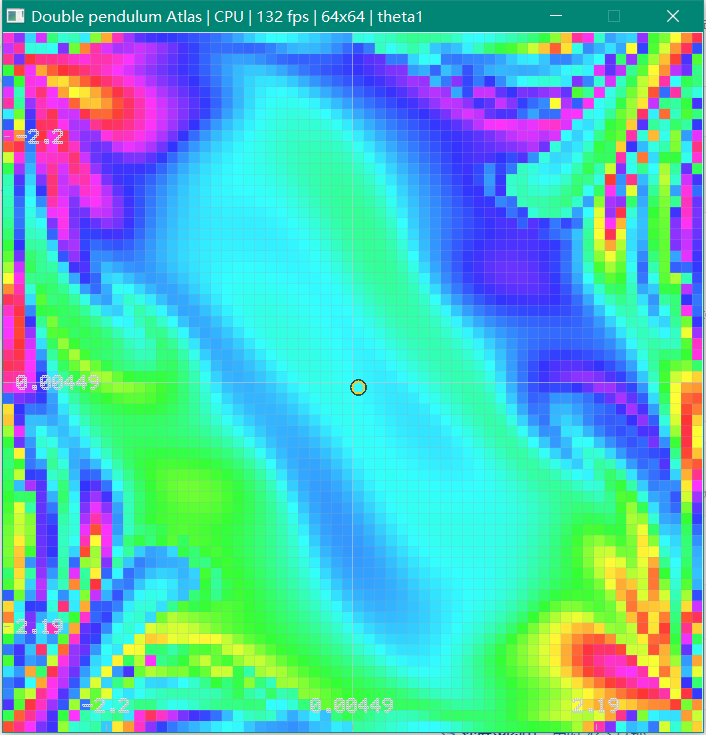
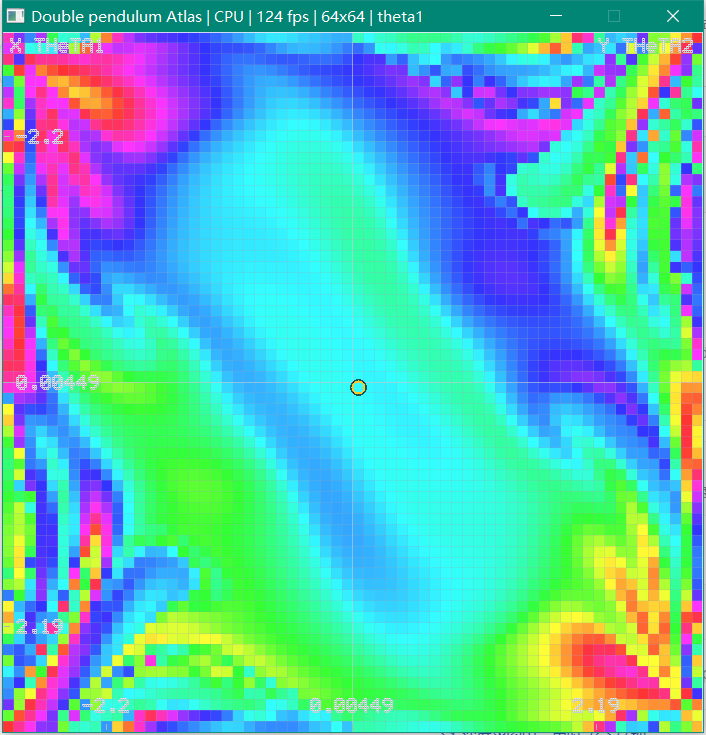
feat: draw axis names on the atlas
Extend the 5x7 vector font with A-Z and draw X/Y axis names at the top edge. Keep the numeric min/mid/max ticks on the bottom/left. Version 1.16.0: 25 C objects, 427,520 B exe, 117 CPU / 149 GPU tests.

diff --git a/src/phase_view.c b/src/phase_view.c
@@ -309,14 +309,50 @@ static const char *glyph_row(char ch, int row)
         { "00000","00000","00000","00000","00000","00110","00110" }, /* . */
         { "00000","00000","00000","11111","00000","00000","00000" }, /* - */
         { "00000","00000","01110","10001","11111","10000","01110" }, /* e */
-        { "00000","00100","00100","11111","00100","00100","00000" }  /* + */
+        { "00000","00100","00100","11111","00100","00100","00000" }, /* + */
+        { "01110","10001","10001","11111","10001","10001","10001" }, /* A */
+        { "11110","10001","10001","11110","10001","10001","11110" }, /* B */
+        { "01111","10000","10000","10000","10000","10000","01111" }, /* C */
+        { "11110","10001","10001","10001","10001","10001","11110" }, /* D */
+        { "11111","10000","10000","11110","10000","10000","11111" }, /* E */
+        { "11111","10000","10000","11110","10000","10000","10000" }, /* F */
+        { "01111","10000","10000","10111","10001","10001","01111" }, /* G */
+        { "10001","10001","10001","11111","10001","10001","10001" }, /* H */
+        { "11111","00100","00100","00100","00100","00100","11111" }, /* I */
+        { "00111","00010","00010","00010","10010","10010","01100" }, /* J */
+        { "10001","10010","10100","11000","10100","10010","10001" }, /* K */
+        { "10000","10000","10000","10000","10000","10000","11111" }, /* L */
+        { "10001","11011","10101","10101","10001","10001","10001" }, /* M */
+        { "10001","11001","10101","10011","10001","10001","10001" }, /* N */
+        { "01110","10001","10001","10001","10001","10001","01110" }, /* O */
+        { "11110","10001","10001","11110","10000","10000","10000" }, /* P */
+        { "01110","10001","10001","10001","10101","10010","01101" }, /* Q */
+        { "11110","10001","10001","11110","10100","10010","10001" }, /* R */
+        { "01111","10000","10000","01110","00001","00001","11110" }, /* S */
+        { "11111","00100","00100","00100","00100","00100","00100" }, /* T */
+        { "10001","10001","10001","10001","10001","10001","01110" }, /* U */
+        { "10001","10001","10001","10001","10001","01010","00100" }, /* V */
+        { "10001","10001","10001","10101","10101","10101","01010" }, /* W */
+        { "10001","10001","01010","00100","01010","10001","10001" }, /* X */
+        { "10001","10001","01010","00100","00100","00100","00100" }, /* Y */
+        { "11111","00001","00010","00100","01000","10000","11111" }, /* Z */
+        { "00000","00110","00110","00000","00110","00110","00000" }, /* : */
+        { "00000","00000","00000","00000","00000","00000","00000" }, /* space */
+        { "11111","10000","10000","11110","10000","10000","11111" }  /* uppercase E */
     };
     int idx = -1;
-    if (ch >= '0' && ch <= '9') idx = ch - '0';
-    else if (ch == '.') idx = 10;
-    else if (ch == '-') idx = 11;
-    else if (ch == 'e' || ch == 'E') idx = 12;
-    else if (ch == '+') idx = 13;
+    if (ch == 'e') idx = 12;
+    else {
+        if (ch >= 'a' && ch <= 'z') ch = (char)(ch - 'a' + 'A');
+        if (ch >= '0' && ch <= '9') idx = ch - '0';
+        else if (ch == '.') idx = 10;
+        else if (ch == '-') idx = 11;
+        else if (ch == '+') idx = 13;
+        else if (ch >= 'A' && ch <= 'Z') idx = 14 + ch - 'A';
+        else if (ch == ':') idx = 40;
+        else if (ch == ' ') idx = 41;
+        else if (ch == 'E') idx = 42;
+    }
     if (idx < 0 || row < 0 || row > 6) return NULL;
     return g[idx][row];
 }
@@ -367,6 +403,7 @@ static void draw_text(float *verts, int maxv, int *n, const char *text,
 
 int pv_build_axis_ticks(const PhaseView *v, double range, int w, int h,
                         double xmin, double xmax, double ymin, double ymax,
+                        const char *xname, const char *yname,
                         float *verts, int maxv)
 {
     const double fracs[3] = { 0.15, 0.5, 0.85 };
@@ -397,6 +434,20 @@ int pv_build_axis_ticks(const PhaseView *v, double range, int w, int h,
             push_line(verts, maxv, &n, px_to_ndc_x(1, w), px_to_ndc_y(sy, h),
                       px_to_ndc_x(7, w), px_to_ndc_y(sy, h), 0.7, 0.7, 0.7, 1.0);
             draw_text(verts, maxv, &n, buf, 14, sy - 7 * pixel / 2, pixel, w, h);
+        }
+    }
+    {
+        char namebuf[96];
+        int tw;
+        if (xname) {
+            snprintf(namebuf, sizeof(namebuf), "X %s", xname);
+            tw = (int)(strlen(namebuf) * 6 * pixel);
+            draw_text(verts, maxv, &n, namebuf, 8, 6, pixel, w, h);
+        }
+        if (yname) {
+            snprintf(namebuf, sizeof(namebuf), "Y %s", yname);
+            tw = (int)(strlen(namebuf) * 6 * pixel);
+            draw_text(verts, maxv, &n, namebuf, w - tw - 8, 6, pixel, w, h);
         }
     }
     return n;

diff --git a/src/app.c b/src/app.c
@@ -1041,6 +1041,8 @@ static void app_render_phase(App *a)
     axis_n = pv_build_axis_ticks(&a->view, 1.0, w, h,
                                  a->exp.xmin, a->exp.xmax,
                                  a->exp.ymin, a->exp.ymax,
+                                 (a->exp.axis_x >= 0) ? a->exp.p[a->exp.axis_x].name : "",
+                                 (a->exp.axis_y >= 0) ? a->exp.p[a->exp.axis_y].name : "",
                                  verts + total * 6, 32768 - total);
     total += axis_n;
     if (grid_n > 0) gpu_draw_lines(a->gpu, verts, grid_n, 1.0f);

diff --git a/src/phase_view.h b/src/phase_view.h
@@ -35,6 +35,7 @@ int    pv_build_overlay(const PhaseView *v, double range, int res, int w, int h,
                         int *grid_verts);
 int    pv_build_axis_ticks(const PhaseView *v, double range, int w, int h,
                            double xmin, double xmax, double ymin, double ymax,
+                           const char *xname, const char *yname,
                            float *verts, int max_verts);
 
 #endif

diff --git a/docs/design.md b/docs/design.md
@@ -10,7 +10,7 @@
 - 解压即用的文件夹 + zip，Tcl/Tk 动态链接。
 
 当前是 M3：三个模型、通用 Model 接口、模型下拉、动态 schema、82 项自检。
-Lua 表达式模型、CPU/GLSL、全模型 GPU、Inspect、实验保存和地图数字刻度已完成；轴名直绘/更多会话状态仍在后面。
+Lua 表达式模型、CPU/GLSL、全模型 GPU、Inspect、实验保存、地图数字刻度和轴名直绘已完成；更多会话状态仍在后面。
 
 ## 2. 数据流
 
@@ -208,8 +208,8 @@ Angle/Mass 是双摆专用预设；在 map 模型上点击会先切回双摆。
 ## 10c. 地图数字刻度
 
 `phase_view.c` 用 5×7 矢量数字在底边/左边画 min/mid/max tick；标签位置按
-当前 zoom/pan 通过 `pv_screen_to_world` 换算，轴名/范围仍在面板读数。
-只画数字，不画轴名；没有纹理字体/GDI 文字。
+当前 zoom/pan 通过 `pv_screen_to_world` 换算；轴名画在顶部，范围仍在面板读数。
+数字刻度 + 顶部 `X name` / `Y name` 轴名；5×7 矢量字体，不依赖纹理/GDI。
 
 ## 11. Lua schema + palette
 
@@ -243,7 +243,7 @@ function M.schema(id) return M.models[id] end
 
 `build.ps1` 六步；C 25 个对象；Tcl/Tk 动态，Lua/Fortran 静态。
 TCL_LIBRARY/TK_LIBRARY 指向 exe 目录下 lib/，不解包、不写 LOCALAPPDATA。
-zip 约 3.9 MB，exe 约 426 KB。
+zip 约 3.9 MB，exe 约 428 KB。
 
 ## 13. 物理与数值边界
 
@@ -255,7 +255,7 @@ zip 约 3.9 MB，exe 约 426 KB。
 
 已知限制：
 
-- 内置模型 + Lua 表达式 map/ODE；全模型 GPU + 地图数字刻度已完成；还没有轴名直绘；
+- 内置模型 + Lua 表达式 map/ODE；全模型 GPU + 数字刻度 + 轴名直绘已完成；
 - GUI 默认 CPU；Kernel=GPU 可启用全模型 GPU atlas；
 - map 只有面板 Inspect，没有独立窗口 inspector；
 - 无文件选择对话框、实验保存/加载；PNG 只包含 atlas；
@@ -271,6 +271,7 @@ zip 约 3.9 MB，exe 约 426 KB。
 - M6（已完成）：GPU compute atlas + CPU 回退（自定义模型）；
 - M7a（已完成）：.dps 实验保存/加载 + 文件对话框 + CLI；
 - M7b（进行中）：控制流与 ODE 表达式已进 CPU+GLSL；
-- M8（进行中）：全模型 GPU + 地图数字刻度已完成；后续轴名直绘、更多会话状态。
+- M8（已完成）：全模型 GPU + 地图数字刻度 + 轴名直绘；
+- M9（进行中）：更多会话状态、最近实验。
 - M8：地图轴刻度、更多会话状态、FTLE/盆地/切片；
 - 可选：map inspector、Hénon Lyapunov（切向量+QR）。

diff --git a/README.md b/README.md
@@ -23,7 +23,7 @@
 ```powershell
 cd pendulum-phase
 pwsh -File build.ps1
-Expand-Archive .\dist\dp-phase-1.15.0.zip -DestinationPath .\dist\run -Force
+Expand-Archive .\dist\dp-phase-1.16.0.zip -DestinationPath .\dist\run -Force
 .\dist\run\dp-phase\dp-phase.exe
 
 # 直接打开某个模型
@@ -175,8 +175,8 @@ param.r=3.7
 
 ## 地图刻度
 
-地图窗口在底边/左边绘制 min/mid/max 数字刻度与短 tick；数值按当前缩放/平移换算，
-轴名和范围仍在面板 `X theta1 [...]  Y theta2 [...]` 读数里。
+地图窗口在底边/左边绘制 min/mid/max 数字刻度与短 tick；顶部左右直接画
+`X theta1` / `Y theta2` 轴名。数值按当前缩放/平移换算，范围仍在面板读数里。
 
 ![地图刻度](docs/shot-axis.png)
 
@@ -192,7 +192,7 @@ param.r=3.7
 
 ![模型面板](docs/shot-panel.png)
 
-**View**：Model、Color by、View（raw/gradient/range/variance）、Palette、Kernel CPU/GPU、颜色条、Grid/Periodic/Circle、Reset view、Angle/Mass 预设、Export PNG/CSV。地图边缘有数字刻度（min/mid/max），轴名/范围在面板读数里。
+**View**：Model、Color by、View（raw/gradient/range/variance）、Palette、Kernel CPU/GPU、颜色条、Grid/Periodic/Circle、Reset view、Angle/Mass 预设、Export PNG/CSV。地图边缘有数字刻度（min/mid/max），顶部直接画 X/Y 轴名；范围在面板读数里。
 
 **Parameters**：X/Y 轴、范围、Res、dt、Steps/frame、模型参数、Apply parameters。
 面板高度按屏幕自适应（1080p 下 620 客户区），双摆 10 个参数能完整显示。
@@ -300,10 +300,10 @@ src/selftest.c      CPU 117 项；含 GPU 的 149 项
 3. 地图/自定义模型没有独立窗口检查器；用面板 **Inspect** 页。
 4. 实验保存/加载已有；PNG/CSV 导出仍固定到 exe 旁 exports/。
 5. 能量通道范围固定 ±50 J；极端参数会饱和；PNG 不包含叠加线。
-6. 控制流/ODE、全模型 GPU、地图数字刻度已完成；还缺轴名直接画在地图上、更多会话状态；目标是 2D 地图，不是 AUTO/MatCont。
+6. 控制流/ODE、全模型 GPU、地图数字刻度与轴名直绘已完成；还缺更多会话状态；目标是 2D 地图，不是 AUTO/MatCont。
 
 ## 仓库
 
 - 分支：`three-windows`
 - 自检：`dp-phase.exe /selftest`、`/gpu-selftest`
-- 发布：`dist/dp-phase/`、`dist/dp-phase-1.15.0.zip`
+- 发布：`dist/dp-phase/`、`dist/dp-phase-1.16.0.zip`

diff --git a/docs/verification.md b/docs/verification.md
@@ -8,14 +8,14 @@ Tcl/Tk 8.6.0、Lua 5.2、NVIDIA GTX 1650 Ti。
 ```text
 [3/6] compiling C skeleton (25 objects)
 [6/6] linking (dynamic Tcl/Tk, static C/Fortran)
-OK -> dist/dp-phase/dp-phase.exe (425,984 bytes)
+OK -> dist/dp-phase/dp-phase.exe (427,520 bytes)
       staged 10.1 MB
-      dist/dp-phase-1.15.0.zip (3.9 MB)
+      dist/dp-phase-1.16.0.zip (3.9 MB)
 ```
 
 | 项目 | 值 |
 | --- | --- |
-| exe | 425,984 B |
+| exe | 427,520 B |
 | zip | 约 3.9 MB（docs 改动会改变 zip 字节数） |
 | 导入表 | KERNEL32/USER32/GDI32/OPENGL32/WINMM/MSVCRT + tcl86.dll/tk86.dll（zlib 静态） |
 | 随包 DLL | tcl86、tk86、libgcc_s_dw2-1、zlib1 |
@@ -231,9 +231,9 @@ SHA256 a/b 均为 DEB38453439C784A5DBBD45C0B7B68BC1175AE0D79DB8883074167576EFE6A
 
 ![Script 页](shot-panel-script.png)
 
-## 12. 地图数字刻度
+## 12. 地图刻度与轴名
 
-地图底边/左边绘制 min/mid/max 数字 tick；数值按 zoom/pan 换算，轴名在面板读数。
+地图底边/左边绘制 min/mid/max 数字 tick；顶部画 X/Y 轴名；数值按 zoom/pan 换算。
 
 ![地图刻度](shot-axis.png)
 
